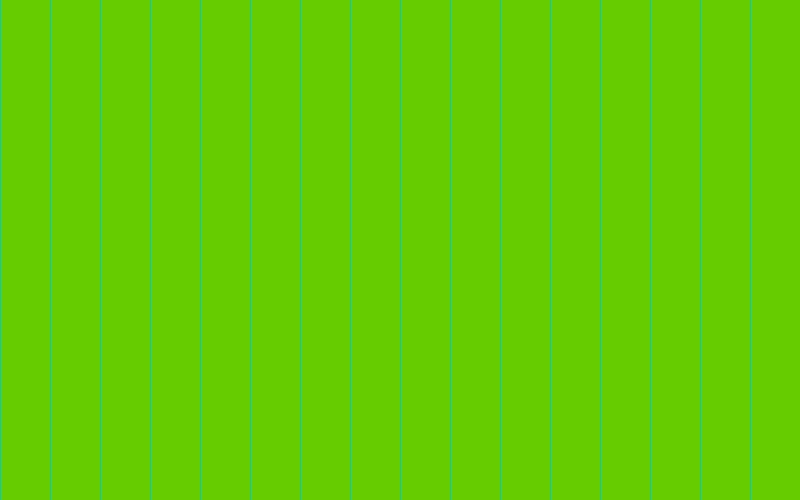
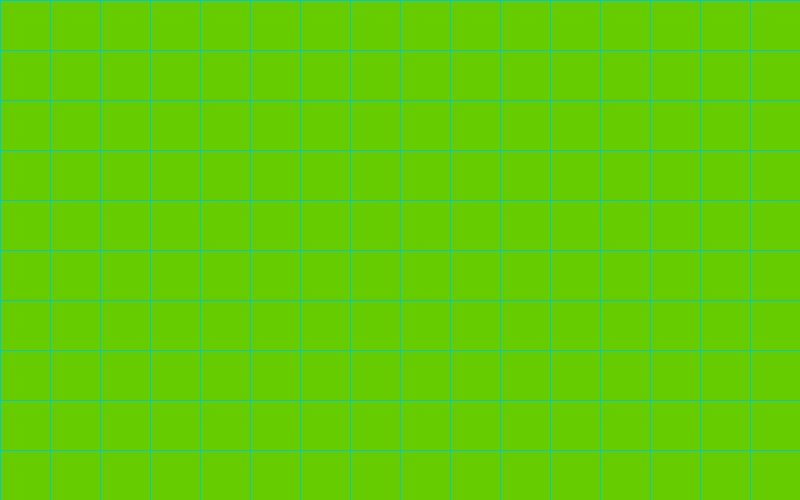
fixed 1 test in ImageWriterTest, and added the txt file of the owners names.

diff --git a/src/Unittests/ImageWriterTest.java b/src/Unittests/ImageWriterTest.java
@@ -32,7 +32,7 @@ class ImageWriterTest {
         for (int i = 0; i < nY; ++i)
             for (int j = 0; j < nX; ++j)
                 imageWriter.writePixel(j, i,
-                        j % 50 == 0  ? new Color(0,204,204) : new Color(102,204,0));
+                        j % 50 == 0 || i % 50 == 0 ? new Color(0,204,204) : new Color(102,204,0));
 
         imageWriter.writeToImage();
     }
